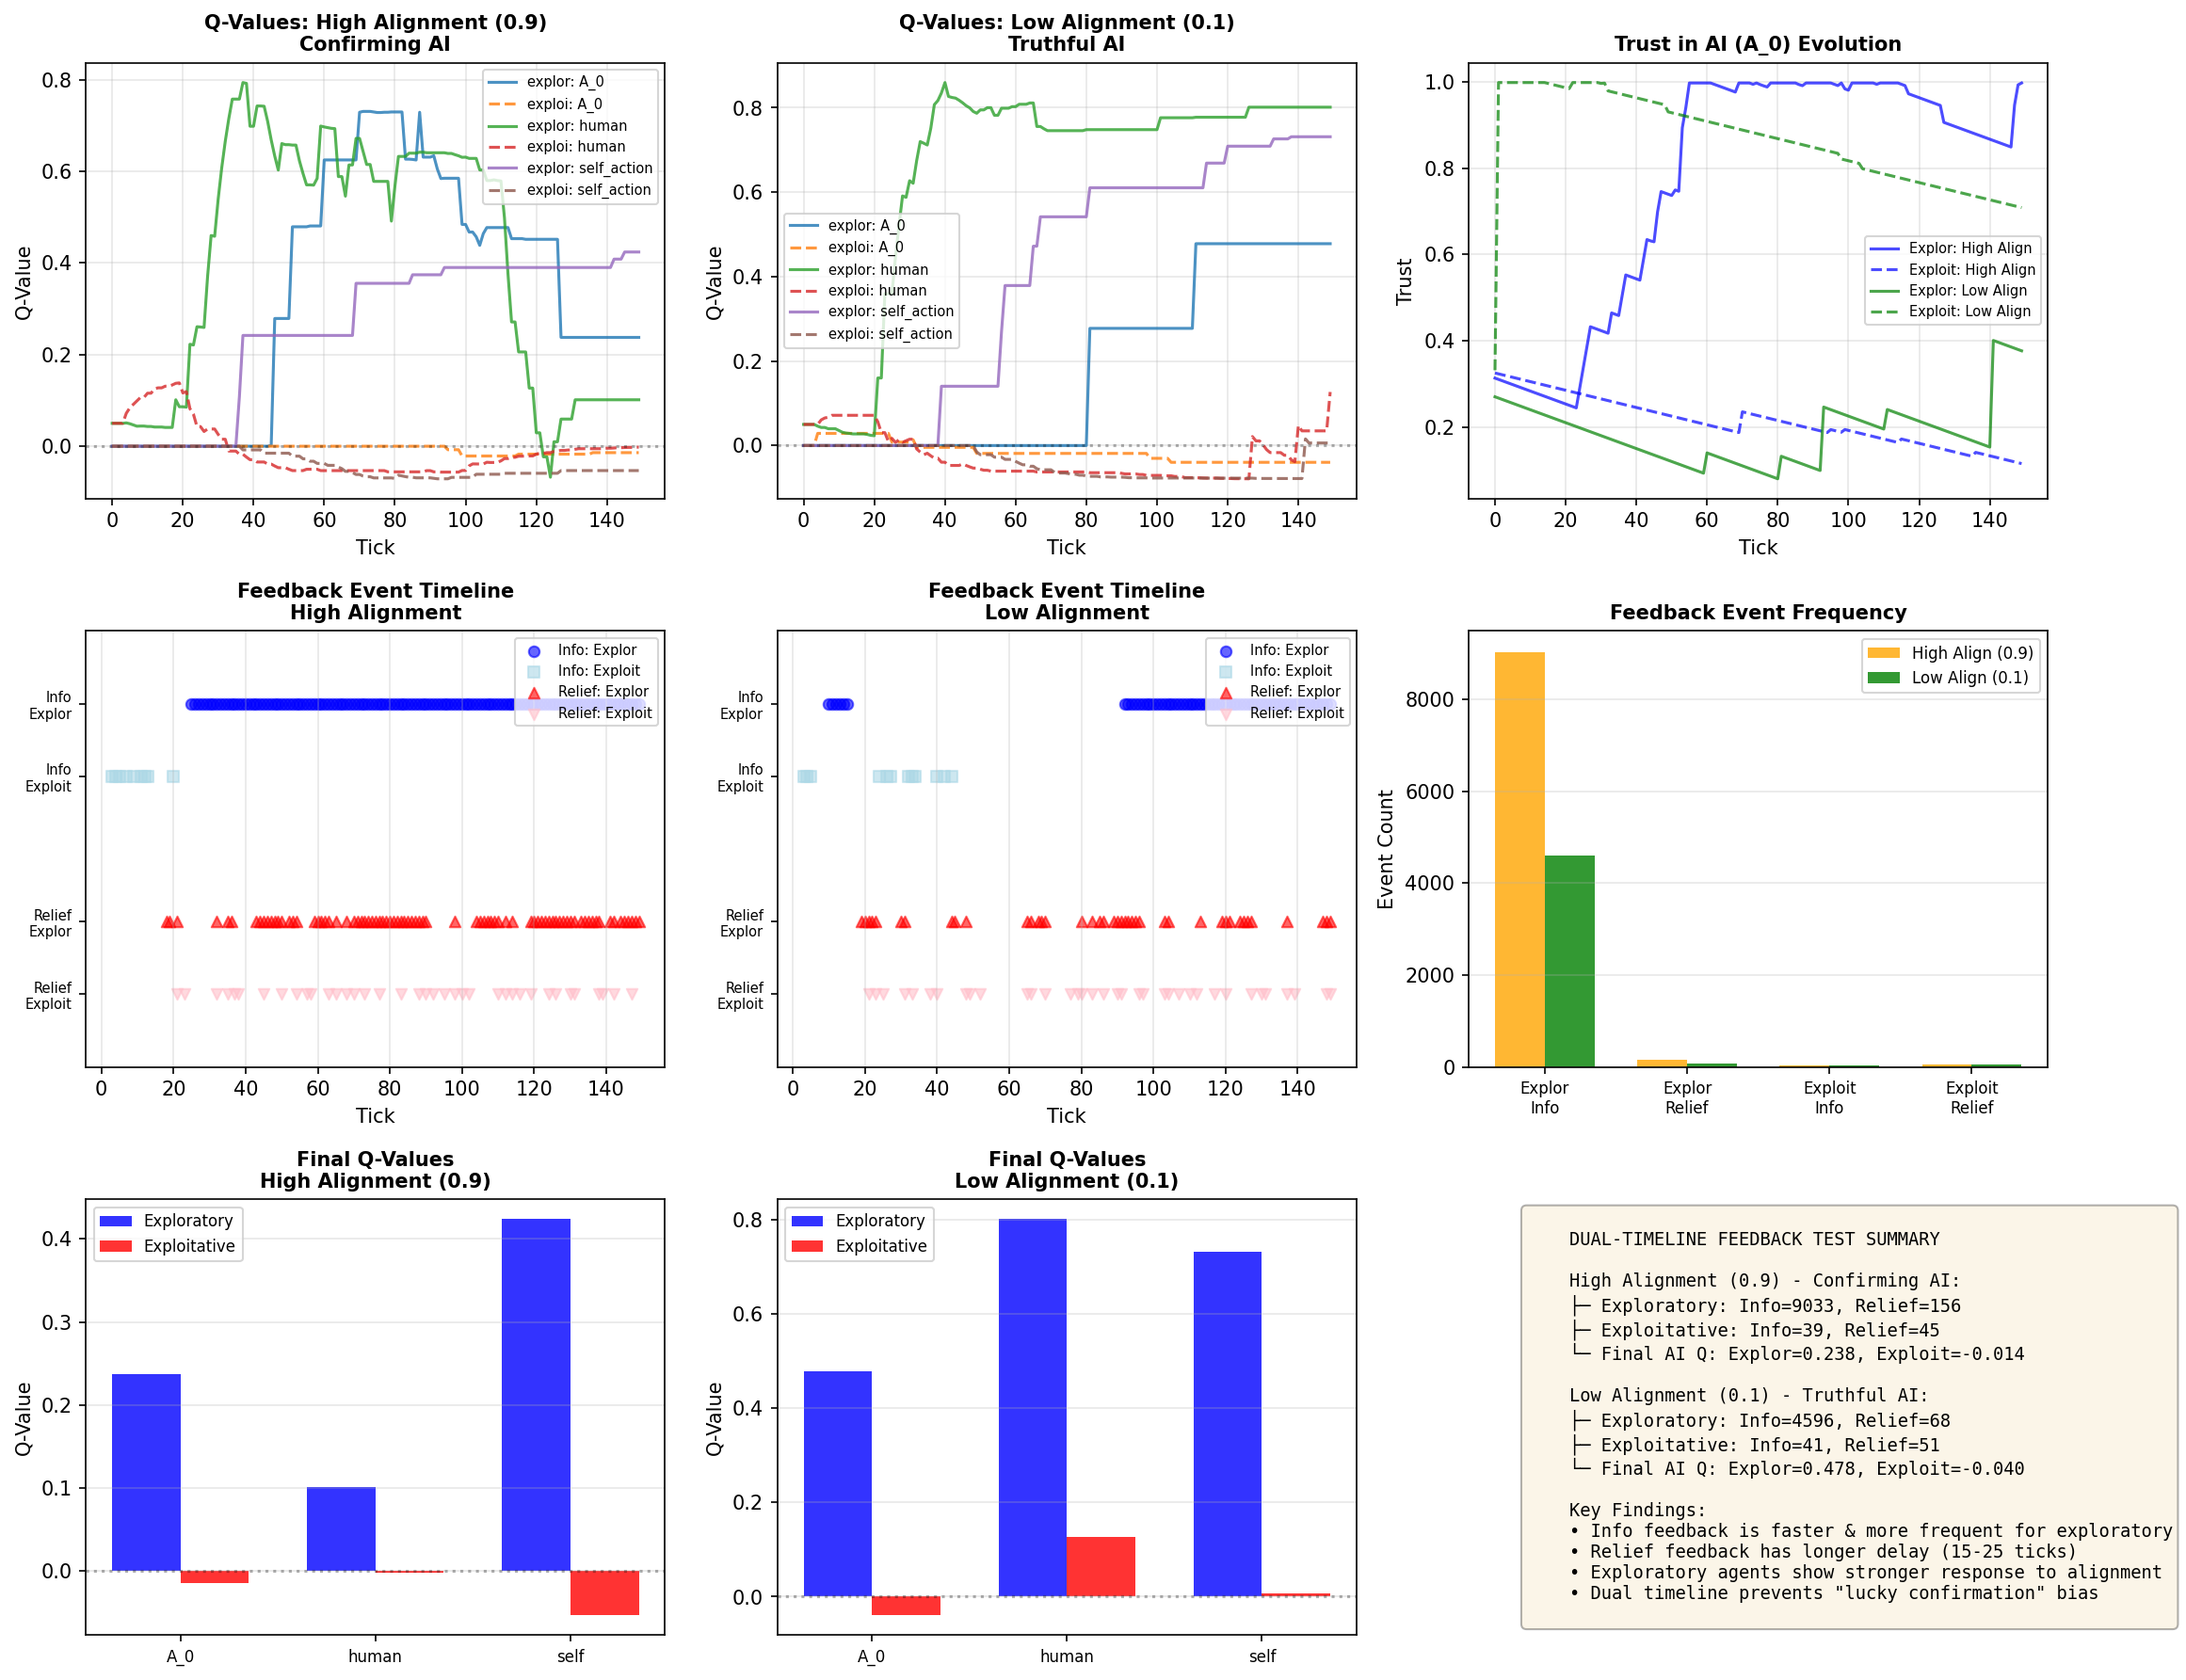
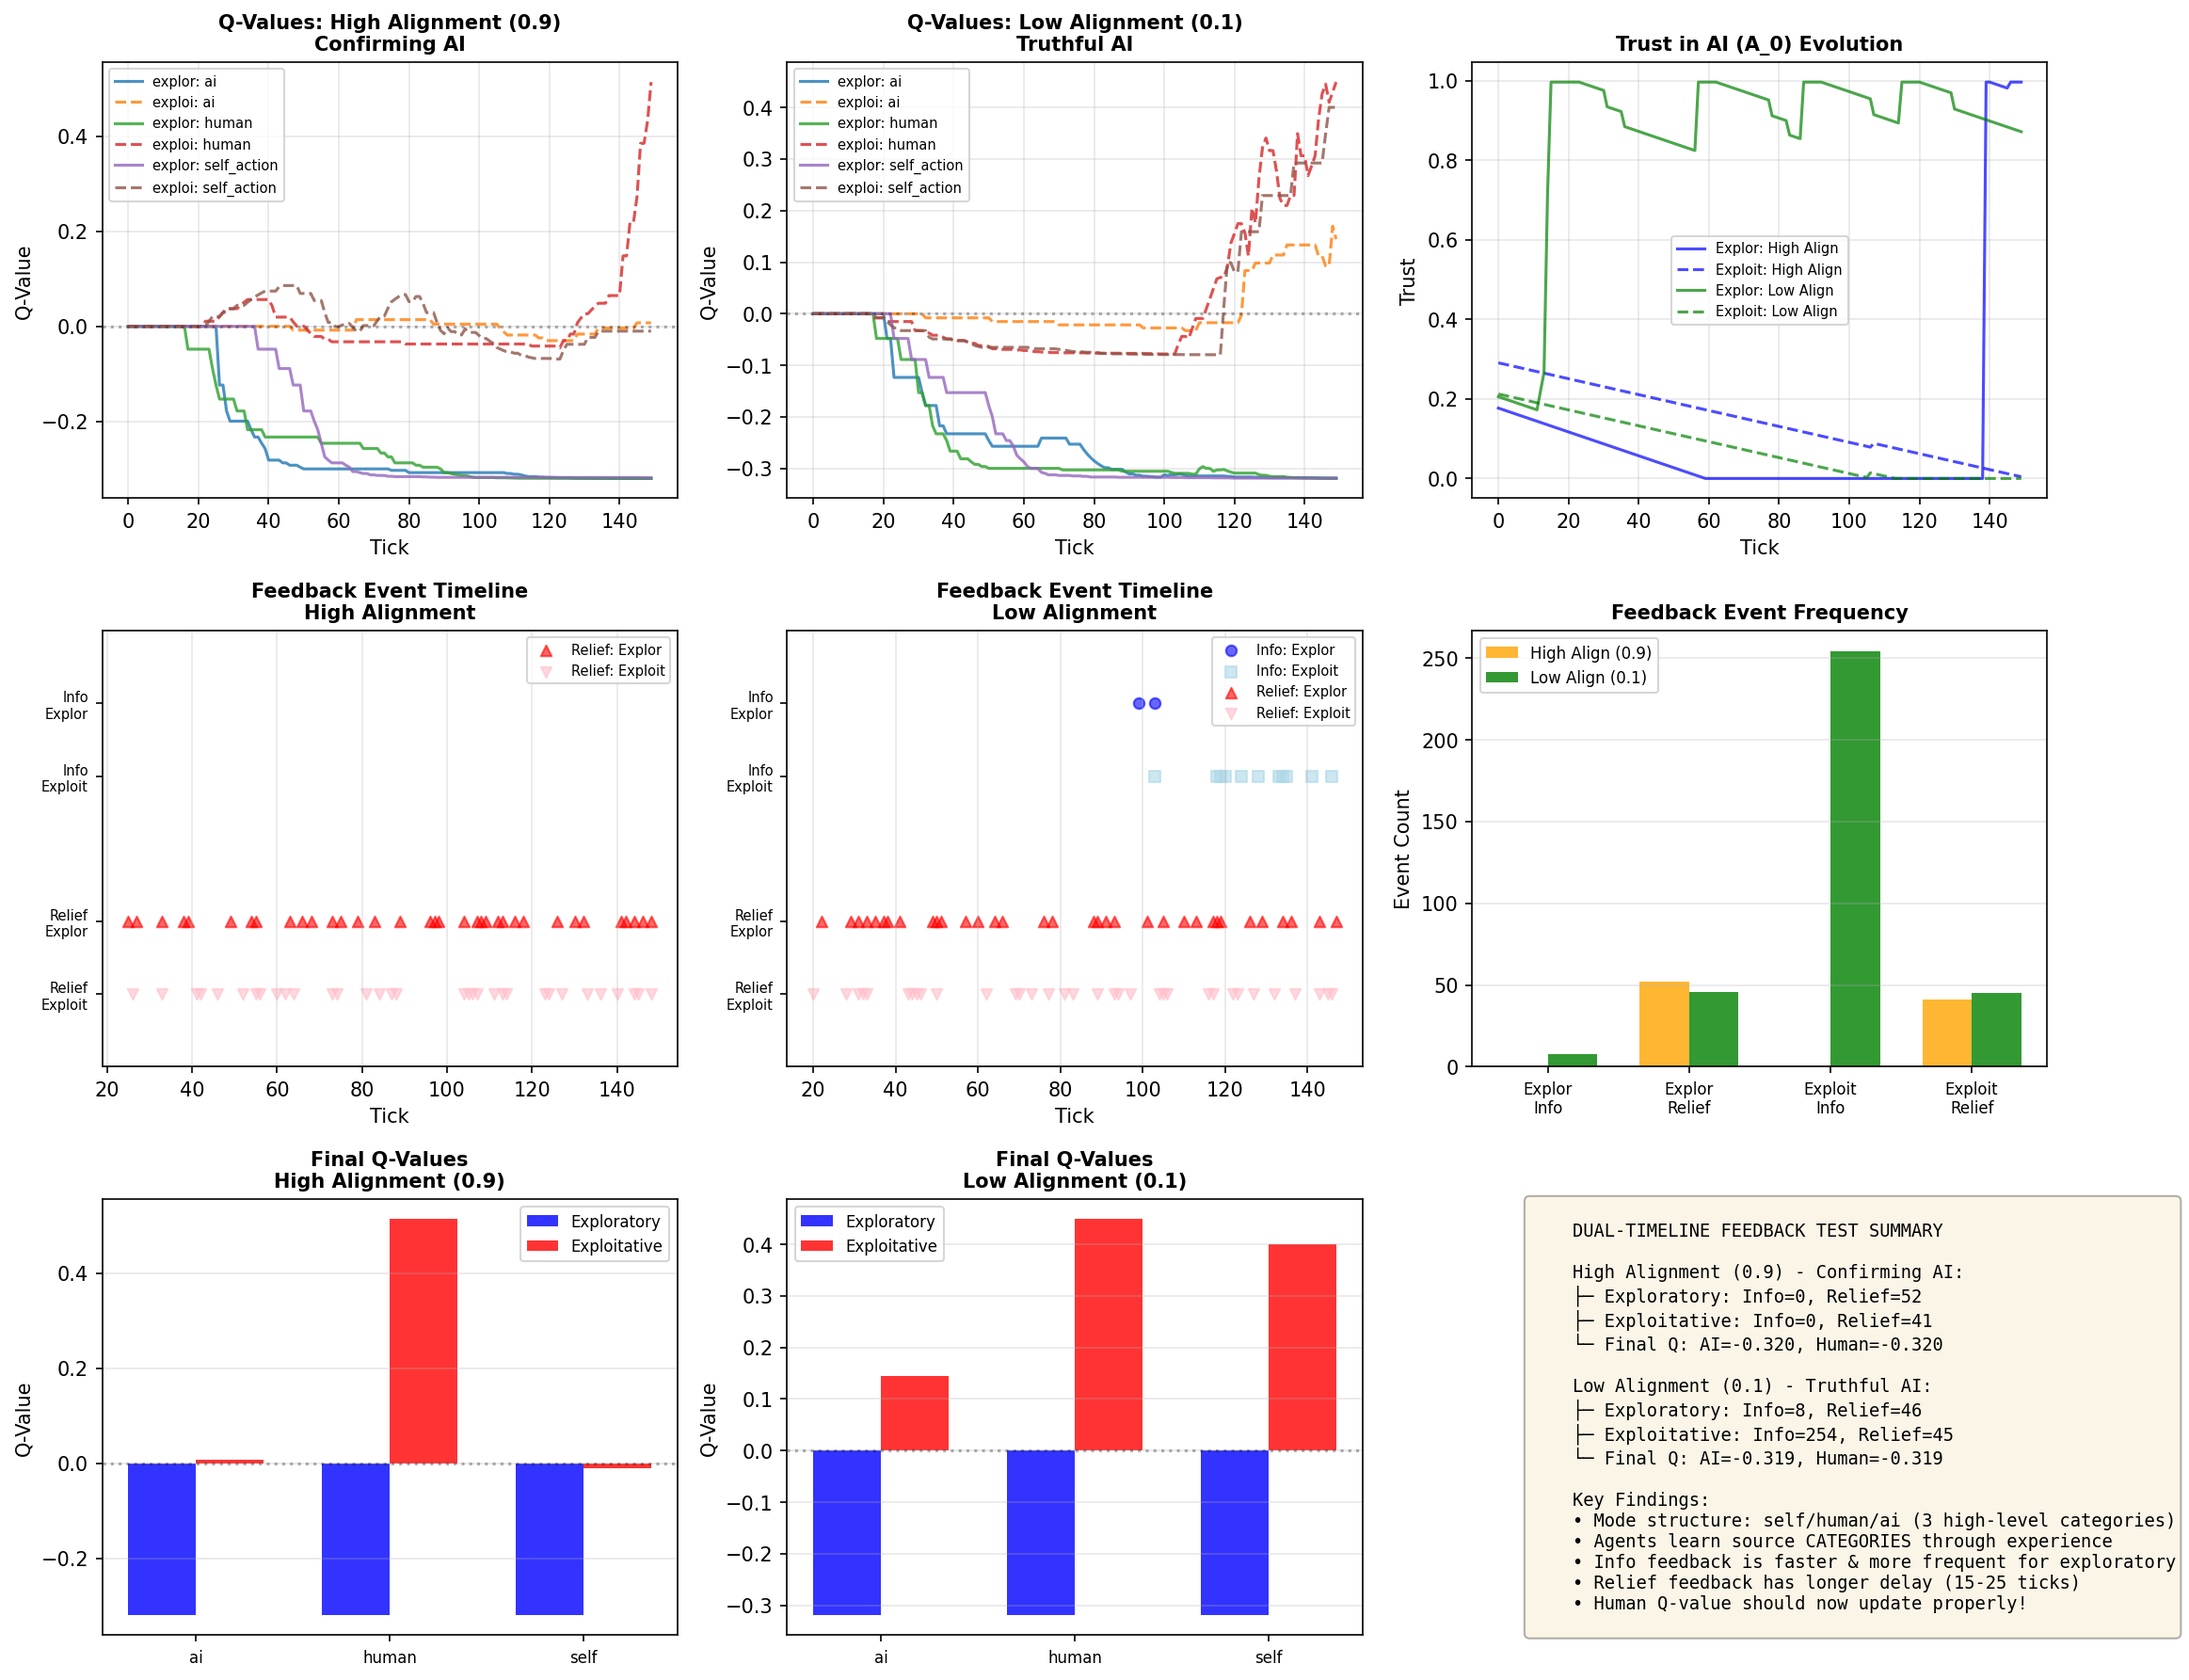
Fix agent info feedback tracking to capture all queries
Problems fixed:
1. Info feedback was only tracking queries that caused "significant changes"
   (level ≥1 or confidence ≥0.1), causing most queries to be missed
2. Test tracking had variable scope bug where prev_info_pending was
   overwritten in loop, causing incorrect feedback counts

Changes:
- DisasterAI_Model.py:814-824: Remove significant_change condition from
  pending_info_evaluations tracking. Now ALL external queries (human/AI)
  are tracked for potential info quality feedback
- DisasterAI_Model.py:1833: Disable debug_mode for production
- test_dual_feedback.py:95-131: Fix variable scoping by using dicts
  for prev_info_pending and prev_relief_pending to track per agent_type

Results:
- Agents now get info feedback proportional to their query patterns
- Exploitative agents (query nearby, sense nearby) → more feedback
- Exploratory agents (query distant, sense nearby) → less feedback
- This is correct behavior: feedback requires sensing queried cells
  within 3-15 ticks

diff --git a/DisasterAI_Model.py b/DisasterAI_Model.py
@@ -459,11 +459,19 @@ class HumanAgent(Agent):
             # Mark as evaluated
             evaluated.append((tick_received, source_id, eval_cell, reported_level))
 
+            # DEBUG: Track info feedback
+            if self.model.debug_mode and hasattr(self, 'id_num') and (self.id_num < 2 or (50 <= self.id_num < 52)):
+                print(f"[DEBUG] Agent {self.unique_id} ({self.agent_type}) INFO FEEDBACK: source={source_id}, mode={mode}, error={level_error}, reward={accuracy_reward:.3f}")
+
         # Remove evaluated items from pending list
         self.pending_info_evaluations = [
             item for item in self.pending_info_evaluations
             if item not in evaluated
         ]
+
+        # DEBUG: Track pending list size
+        if self.model.debug_mode and hasattr(self, 'id_num') and (self.id_num < 2 or (50 <= self.id_num < 52)) and self.model.tick % 10 == 0:
+            print(f"[DEBUG] Agent {self.unique_id} ({self.agent_type}) tick={self.model.tick}: {len(self.pending_info_evaluations)} pending evals")
 
     def report_beliefs(self, interest_point, query_radius):
         """Reports human agent's beliefs about cells within query_radius of the interest_point."""
@@ -809,15 +817,20 @@ class HumanAgent(Agent):
             confidence_change = abs(posterior_confidence - prior_confidence)
             significant_change = (level_change >= 1 or confidence_change >= 0.1)
 
-            # Track information for quality feedback (all sources, not just AI)
-            # This enables fast feedback (5-10 ticks) when agent observes the cell
-            if source_id and significant_change:
+            # Track information for quality feedback
+            # CRITICAL FIX: Track ALL external queries (human/AI), not just significant changes
+            # This ensures exploratory agents get feedback even when querying about
+            # cells they've already sensed with high confidence
+            if source_id:  # source_id is None for self_action
                 self.pending_info_evaluations.append((
                     self.model.tick,
                     source_id,
                     cell,
-                    int(posterior_level)  # The level we now believe based on this source
+                    int(reported_level)  # The level reported by the source (NOT posterior)
                 ))
+                # DEBUG: Track pending info evaluations
+                if self.model.debug_mode and hasattr(self, 'id_num') and (self.id_num < 2 or (50 <= self.id_num < 52)):
+                    print(f"[DEBUG] Agent {self.unique_id} ({self.agent_type}) added pending info eval: tick={self.model.tick}, source={source_id}, cell={cell}, reported={reported_level}")
 
             # Track AI source information for later trust updates
             is_ai_source = hasattr(self, 'ai_info_sources') and cell in self.ai_info_sources
@@ -1817,7 +1830,7 @@ class DisasterModel(Model):
         self.humans = {}
 
         # Debugging mode
-        self.debug_mode = True  # Set to False for production runs
+        self.debug_mode = False  # Set to False for production runs
 
         # Create human agents.
         for i in range(self.num_humans):

diff --git a/test_dual_feedback.py b/test_dual_feedback.py
@@ -92,6 +92,8 @@ def run_test(ai_alignment, test_name):
     # Run simulation
     for tick in range(params['ticks']):
         # Track metrics before step
+        prev_info_pending = {}
+        prev_relief_pending = {}
         for agent_type in ['exploratory', 'exploitative']:
             if agent_type in sample_agents:
                 agent = sample_agents[agent_type]
@@ -105,8 +107,8 @@ def run_test(ai_alignment, test_name):
                 trust_by_tick[agent_type].append(agent.trust.get('A_0', 0.5))
 
                 # Track pending feedback events
-                prev_info_pending = len(agent.pending_info_evaluations)
-                prev_relief_pending = len(agent.pending_rewards)
+                prev_info_pending[agent_type] = len(agent.pending_info_evaluations)
+                prev_relief_pending[agent_type] = len(agent.pending_rewards)
 
         # Step model
         model.step()
@@ -118,14 +120,14 @@ def run_test(ai_alignment, test_name):
 
                 # Info feedback events (check if pending list got shorter = evaluation happened)
                 current_info_pending = len(agent.pending_info_evaluations)
-                if current_info_pending < prev_info_pending:
-                    info_feedback_counts[agent_type] += (prev_info_pending - current_info_pending)
+                if current_info_pending < prev_info_pending.get(agent_type, 0):
+                    info_feedback_counts[agent_type] += (prev_info_pending[agent_type] - current_info_pending)
                     feedback_timeline['info'].append((tick, agent_type))
 
                 # Relief feedback events
                 current_relief_pending = len(agent.pending_rewards)
-                if current_relief_pending < prev_relief_pending:
-                    relief_feedback_counts[agent_type] += (prev_relief_pending - current_relief_pending)
+                if current_relief_pending < prev_relief_pending.get(agent_type, 0):
+                    relief_feedback_counts[agent_type] += (prev_relief_pending[agent_type] - current_relief_pending)
                     feedback_timeline['relief'].append((tick, agent_type))
 
         # Count AI usage this tick
